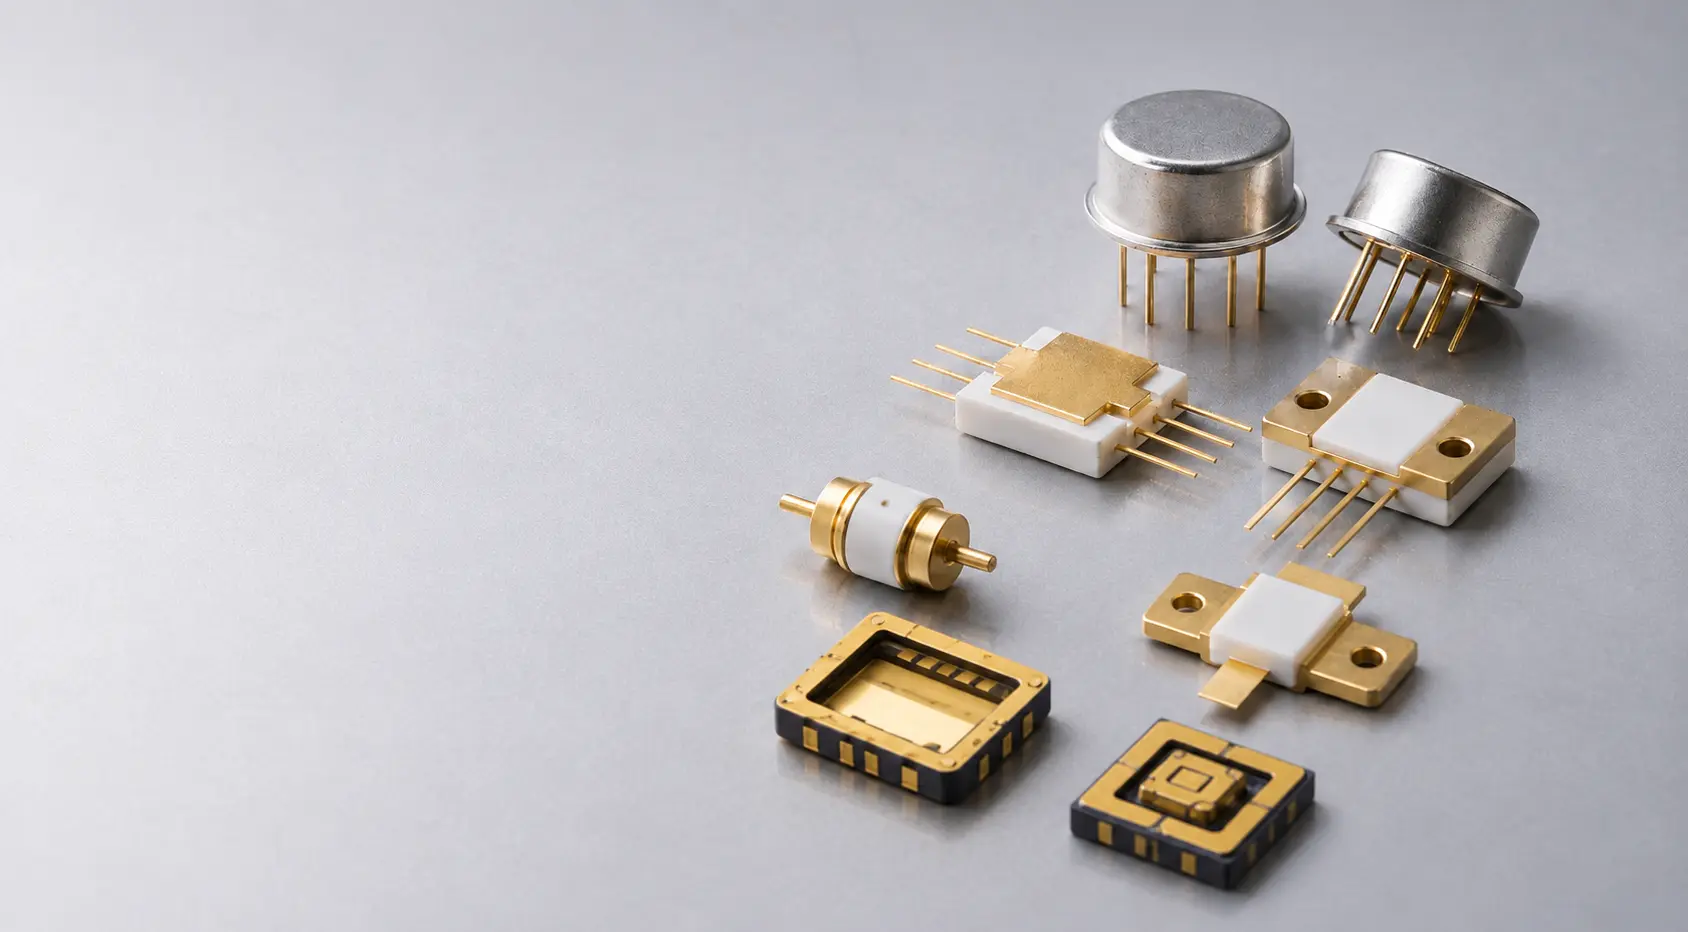
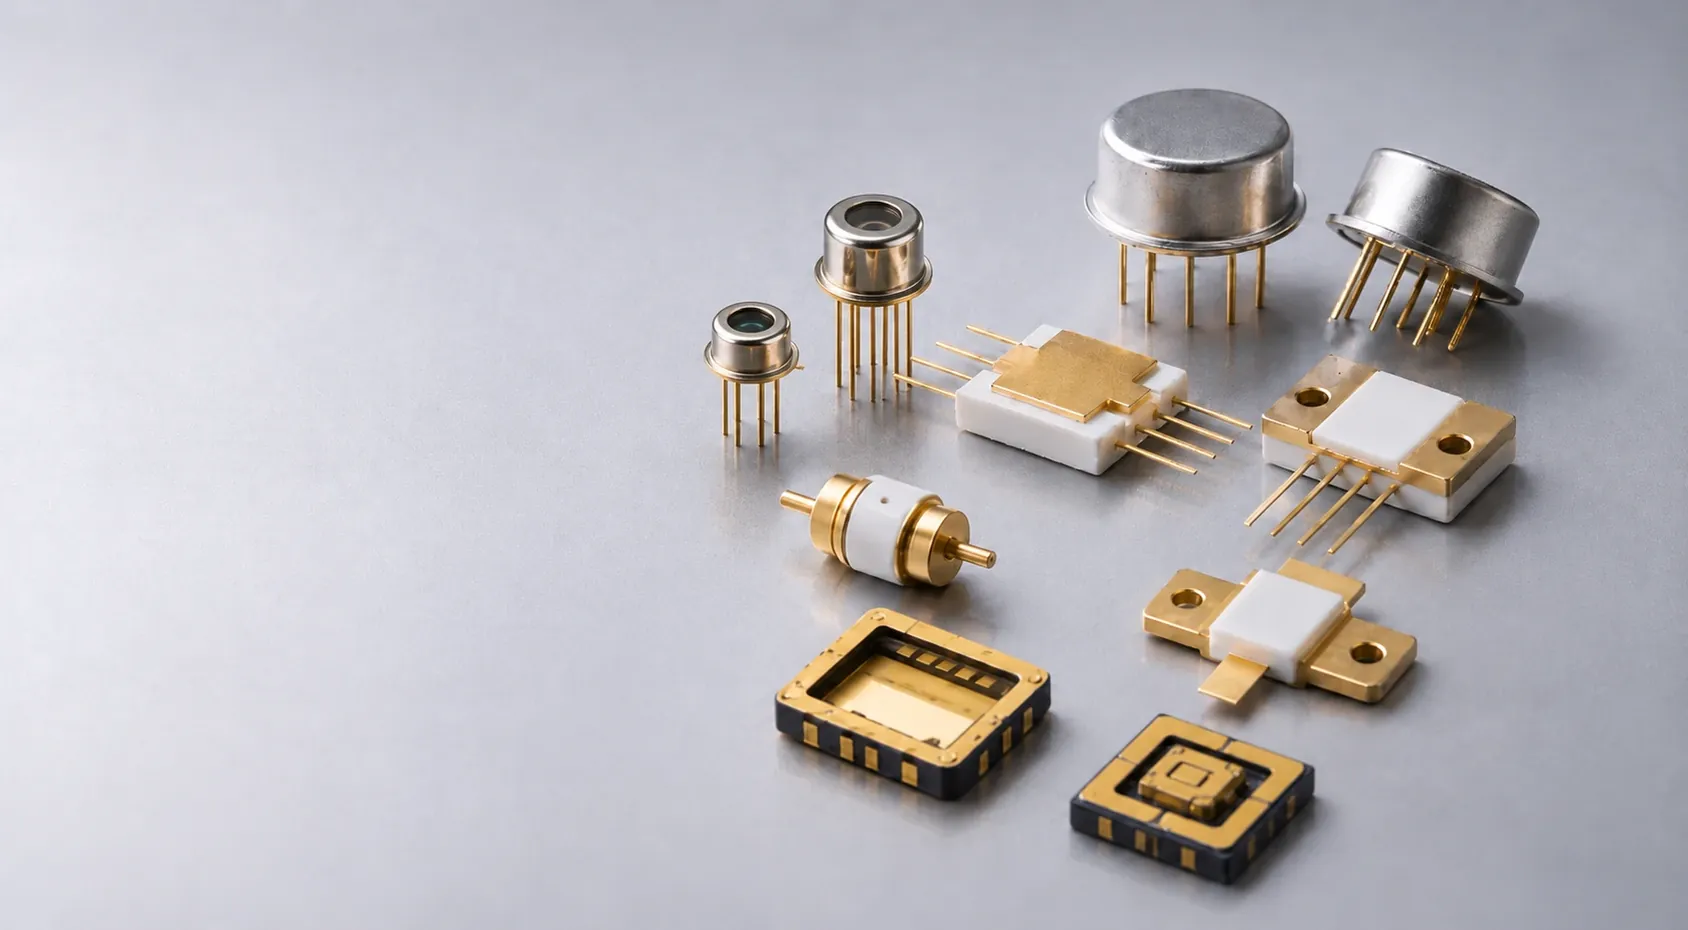
Publish from Razor: Hermetic & Ceramic hero and leak-test detail; remove unused root copy of the old hero

diff --git a/capabilities-osat-hermetic-ceramic.html b/capabilities-osat-hermetic-ceramic.html
@@ -508,7 +508,7 @@
     <div class="hana-spec-block" style="margin-top:18px;"><div class="hana-spec-item"><div class="hana-spec-label" style="display:block;margin-bottom:8px;">Cap weld under nitrogen</div><div class="hana-spec-value" style="font-family:var(--font-mono);font-size:17px;">Hermetic</div></div><div class="hana-spec-item"><div class="hana-spec-label" style="display:block;margin-bottom:8px;">Leak test on sealed product</div><div class="hana-spec-value" style="font-family:var(--font-mono);font-size:17px;">Fine + gross</div></div><div class="hana-spec-item"><div class="hana-spec-label" style="display:block;margin-bottom:8px;">Ceramic bodies</div><div class="hana-spec-value" style="font-family:var(--font-mono);font-size:17px;">AlN / Al₂O₃</div></div><div class="hana-spec-item"><div class="hana-spec-label" style="display:block;margin-bottom:8px;">Metal can formats</div><div class="hana-spec-value" style="font-family:var(--font-mono);font-size:17px;">TO-46/56/8B</div></div></div>
   </div></div></div>
 <div class="sc-pillars-band" data-hana-bg="wafer" data-variant="light" data-accent="" data-fade="none" style="background:linear-gradient(120deg,#f5f7fa 35%,#d8e6f3 100%);position:relative;overflow:hidden;"><div class="cap-section cap-section--band"><div style="margin-bottom:64px;"><div style="margin-bottom:26px;"><h2 style="font-family:var(--font-display);font-size:28px;font-weight:600;color:var(--ink);line-height:1.2;letter-spacing:-0.02em;margin:0;">Capability overview</h2></div><div class="cap-grid-3 sc-stack"><div class="sc-pillar" style="border:1px solid var(--line);border-radius:var(--radius-card);overflow:hidden;background:#fff;display:flex;flex-direction:column;"><div style="padding:22px;display:flex;flex-direction:column;flex:1;"><div style="font-family:var(--font-display);font-size:20px;font-weight:600;color:var(--ink);letter-spacing:-0.01em;margin-bottom:10px;">TO-can</div><p style="font-family:var(--font-text);font-size:13.5px;color:var(--ink-2);line-height:1.55;margin:0 0 16px;">Metal-can packages with optical windows where required.</p><ul style="list-style:none;padding:0;margin:0 0 16px;"><li style="display:grid;grid-template-columns:16px 1fr;gap:8px;align-items:baseline;padding:6px 0;"><span style="color:var(--hana-blue);font-weight:700;">&rsaquo;</span><span style="font-family:var(--font-text);font-size:13px;color:var(--ink-2);line-height:1.5;">TO-46 receiver packages for datacom applications</span></li><li style="display:grid;grid-template-columns:16px 1fr;gap:8px;align-items:baseline;padding:6px 0;"><span style="color:var(--hana-blue);font-weight:700;">&rsaquo;</span><span style="font-family:var(--font-text);font-size:13px;color:var(--ink-2);line-height:1.5;">TO-56 packages with window lens</span></li><li style="display:grid;grid-template-columns:16px 1fr;gap:8px;align-items:baseline;padding:6px 0;"><span style="color:var(--hana-blue);font-weight:700;">&rsaquo;</span><span style="font-family:var(--font-text);font-size:13px;color:var(--ink-2);line-height:1.5;">16-lead TO-8B packages for MEMS mirrors</span></li><li style="display:grid;grid-template-columns:16px 1fr;gap:8px;align-items:baseline;padding:6px 0;"><span style="color:var(--hana-blue);font-weight:700;">&rsaquo;</span><span style="font-family:var(--font-text);font-size:13px;color:var(--ink-2);line-height:1.5;">APD and TIA die assembled on a ceramic submount</span></li></ul></div></div><div class="sc-pillar" style="border:1px solid var(--line);border-radius:var(--radius-card);overflow:hidden;background:#fff;display:flex;flex-direction:column;"><div style="padding:22px;display:flex;flex-direction:column;flex:1;"><div style="font-family:var(--font-display);font-size:20px;font-weight:600;color:var(--ink);letter-spacing:-0.01em;margin-bottom:10px;">Ceramic</div><p style="font-family:var(--font-text);font-size:13.5px;color:var(--ink-2);line-height:1.55;margin:0 0 16px;">AlN and alumina ceramic bodies for VCSEL-based assemblies.</p><ul style="list-style:none;padding:0;margin:0 0 16px;"><li style="display:grid;grid-template-columns:16px 1fr;gap:8px;align-items:baseline;padding:6px 0;"><span style="color:var(--hana-blue);font-weight:700;">&rsaquo;</span><span style="font-family:var(--font-text);font-size:13px;color:var(--ink-2);line-height:1.5;">Ceramic bodies from 1.95 × 3.20 mm</span></li><li style="display:grid;grid-template-columns:16px 1fr;gap:8px;align-items:baseline;padding:6px 0;"><span style="color:var(--hana-blue);font-weight:700;">&rsaquo;</span><span style="font-family:var(--font-text);font-size:13px;color:var(--ink-2);line-height:1.5;">3.60 × 3.70 mm packages for time-of-flight sensing</span></li><li style="display:grid;grid-template-columns:16px 1fr;gap:8px;align-items:baseline;padding:6px 0;"><span style="color:var(--hana-blue);font-weight:700;">&rsaquo;</span><span style="font-family:var(--font-text);font-size:13px;color:var(--ink-2);line-height:1.5;">Precision epoxy-dispensed diffusers</span></li><li style="display:grid;grid-template-columns:16px 1fr;gap:8px;align-items:baseline;padding:6px 0;"><span style="color:var(--hana-blue);font-weight:700;">&rsaquo;</span><span style="font-family:var(--font-text);font-size:13px;color:var(--ink-2);line-height:1.5;">Kovar lids with AuSn furnace reflow</span></li></ul></div></div><div class="sc-pillar" style="border:1px solid var(--line);border-radius:var(--radius-card);overflow:hidden;background:#fff;display:flex;flex-direction:column;"><div style="padding:22px;display:flex;flex-direction:column;flex:1;"><div style="font-family:var(--font-display);font-size:20px;font-weight:600;color:var(--ink);letter-spacing:-0.01em;margin-bottom:10px;">Seal &amp; test</div><p style="font-family:var(--font-text);font-size:13.5px;color:var(--ink-2);line-height:1.55;margin:0 0 16px;">Hermeticity is verified through fine and gross leak testing.</p><ul style="list-style:none;padding:0;margin:0 0 16px;"><li style="display:grid;grid-template-columns:16px 1fr;gap:8px;align-items:baseline;padding:6px 0;"><span style="color:var(--hana-blue);font-weight:700;">&rsaquo;</span><span style="font-family:var(--font-text);font-size:13px;color:var(--ink-2);line-height:1.5;">Cap welding in a controlled nitrogen chamber</span></li><li style="display:grid;grid-template-columns:16px 1fr;gap:8px;align-items:baseline;padding:6px 0;"><span style="color:var(--hana-blue);font-weight:700;">&rsaquo;</span><span style="font-family:var(--font-text);font-size:13px;color:var(--ink-2);line-height:1.5;">Seam sealing for hybrid assemblies</span></li><li style="display:grid;grid-template-columns:16px 1fr;gap:8px;align-items:baseline;padding:6px 0;"><span style="color:var(--hana-blue);font-weight:700;">&rsaquo;</span><span style="font-family:var(--font-text);font-size:13px;color:var(--ink-2);line-height:1.5;">Fine and gross leak testing</span></li><li style="display:grid;grid-template-columns:16px 1fr;gap:8px;align-items:baseline;padding:6px 0;"><span style="color:var(--hana-blue);font-weight:700;">&rsaquo;</span><span style="font-family:var(--font-text);font-size:13px;color:var(--ink-2);line-height:1.5;">Multi-component assemblies hermetically sealed as one unit</span></li></ul></div></div></div></div></div></div>
-<div style="background:#fff;"><div class="cap-section"><div style="margin-bottom:44px;"><div class="why-grid why-grid--single"><div style="position:relative;overflow:hidden;border-radius:var(--radius-panel);padding:32px 30px;background:linear-gradient(152deg,#155F9B 0%,#0E4A7C 46%,#0A3860 100%);border:none;"><div style="display:flex;align-items:center;gap:14px;margin-bottom:18px;"><img src="images/hana-mark-white.svg" alt="" style="width:36px;height:36px;display:block;flex:none;"><span style="flex:1;height:1px;background:rgba(255,255,255,0.24);"></span></div><h3 style="font-family:var(--font-display);font-size:23px;font-weight:600;color:#fff;line-height:1.22;letter-spacing:-0.02em;margin:0 0 12px;text-wrap:balance;">Controlled sealing with verified hermeticity</h3><p style="font-family:var(--font-text);font-size:14.5px;color:rgba(255,255,255,0.84);line-height:1.6;margin:0 0 16px;">Hermetic packaging relies on a controlled cavity rather than encapsulation. The lid is welded or seam-sealed under nitrogen, and the finished package is leak-tested to verify that the cavity remains protected.</p><ul style="list-style:none;padding:0;margin:0;"><li style="display:grid;grid-template-columns:16px 1fr;gap:10px;align-items:baseline;padding:9px 0;border-top:1px solid rgba(255,255,255,0.2);"><span style="color:#7EC8FF;font-size:14px;font-weight:700;line-height:1;">&rsaquo;</span><span style="font-family:var(--font-text);font-size:13.5px;color:rgba(255,255,255,0.88);line-height:1.55;">Cap welding and seam sealing instead of encapsulation</span></li><li style="display:grid;grid-template-columns:16px 1fr;gap:10px;align-items:baseline;padding:9px 0;border-top:1px solid rgba(255,255,255,0.2);"><span style="color:#7EC8FF;font-size:14px;font-weight:700;line-height:1;">&rsaquo;</span><span style="font-family:var(--font-text);font-size:13.5px;color:rgba(255,255,255,0.88);line-height:1.55;">Sealing performed under nitrogen</span></li><li style="display:grid;grid-template-columns:16px 1fr;gap:10px;align-items:baseline;padding:9px 0;border-top:1px solid rgba(255,255,255,0.2);"><span style="color:#7EC8FF;font-size:14px;font-weight:700;line-height:1;">&rsaquo;</span><span style="font-family:var(--font-text);font-size:13.5px;color:rgba(255,255,255,0.88);line-height:1.55;">Fine and gross leak testing on sealed product</span></li><li style="display:grid;grid-template-columns:16px 1fr;gap:10px;align-items:baseline;padding:9px 0;border-top:1px solid rgba(255,255,255,0.2);border-bottom:1px solid rgba(255,255,255,0.2);"><span style="color:#7EC8FF;font-size:14px;font-weight:700;line-height:1;">&rsaquo;</span><span style="font-family:var(--font-text);font-size:13.5px;color:rgba(255,255,255,0.88);line-height:1.55;">Molded packaging available when a hermetic cavity is not required</span></li></ul></div></div></div></div></div>
+<div style="background:#fff;"><div class="cap-section"><div style="margin-bottom:44px;"><div class="why-grid why-grid--single"><div style="position:relative;overflow:hidden;border-radius:var(--radius-panel);padding:32px 30px;background:linear-gradient(152deg,#155F9B 0%,#0E4A7C 46%,#0A3860 100%);border:none;"><div style="display:flex;align-items:center;gap:14px;margin-bottom:18px;"><img src="images/hana-mark-white.svg" alt="" style="width:36px;height:36px;display:block;flex:none;"><span style="flex:1;height:1px;background:rgba(255,255,255,0.24);"></span></div><h3 style="font-family:var(--font-display);font-size:23px;font-weight:600;color:#fff;line-height:1.22;letter-spacing:-0.02em;margin:0 0 12px;text-wrap:balance;">Controlled sealing with verified hermeticity</h3><p style="font-family:var(--font-text);font-size:14.5px;color:rgba(255,255,255,0.84);line-height:1.6;margin:0 0 16px;">Lids are attached by resistance cap welding or seam sealing on Miyachi Unitek equipment, or by flux-free DAP solder sealing, with sealing carried out under nitrogen. Sealed packages can then be checked with the leak tests the specification calls for.</p><ul style="list-style:none;padding:0;margin:0;"><li style="display:grid;grid-template-columns:16px 1fr;gap:10px;align-items:baseline;padding:9px 0;border-top:1px solid rgba(255,255,255,0.2);"><span style="color:#7EC8FF;font-size:14px;font-weight:700;line-height:1;">&rsaquo;</span><span style="font-family:var(--font-text);font-size:13.5px;color:rgba(255,255,255,0.88);line-height:1.55;">Helium fine leak test with reject limits from 1×10⁻⁷ to 2×10⁻⁸ atm·cc/s</span></li><li style="display:grid;grid-template-columns:16px 1fr;gap:10px;align-items:baseline;padding:9px 0;border-top:1px solid rgba(255,255,255,0.2);"><span style="color:#7EC8FF;font-size:14px;font-weight:700;line-height:1;">&rsaquo;</span><span style="font-family:var(--font-text);font-size:13.5px;color:rgba(255,255,255,0.88);line-height:1.55;">Gross leak bubble test in FC-40 at 125 °C</span></li><li style="display:grid;grid-template-columns:16px 1fr;gap:10px;align-items:baseline;padding:9px 0;border-top:1px solid rgba(255,255,255,0.2);"><span style="color:#7EC8FF;font-size:14px;font-weight:700;line-height:1;">&rsaquo;</span><span style="font-family:var(--font-text);font-size:13.5px;color:rgba(255,255,255,0.88);line-height:1.55;">Dye penetrant test under UV light for seal integrity</span></li><li style="display:grid;grid-template-columns:16px 1fr;gap:10px;align-items:baseline;padding:9px 0;border-top:1px solid rgba(255,255,255,0.2);"><span style="color:#7EC8FF;font-size:14px;font-weight:700;line-height:1;">&rsaquo;</span><span style="font-family:var(--font-text);font-size:13.5px;color:rgba(255,255,255,0.88);line-height:1.55;">Molded packaging available when a hermetic cavity is not required</span></li></ul></div></div></div></div></div>
 <div style="background:var(--hana-blue-tint);"><div class="cap-section"><div style="margin-bottom:8px;"><div style="margin-bottom:26px;"><h2 style="font-family:var(--font-display);font-size:28px;font-weight:600;color:var(--ink);line-height:1.2;letter-spacing:-0.02em;margin:0;">Where we run it</h2><p style="font-family:var(--font-text);font-size:15.5px;color:var(--ink-2);line-height:1.6;max-width:640px;margin:10px 0 0;">Hermetic and ceramic packaging is available across our OSAT network; production mix varies by site.</p></div><div class="cap-grid-4"><a href="locations-ayutthaya.html" style="text-decoration:none;border:1px solid var(--line);border-radius:var(--radius-card);padding:22px;background:#fff;display:flex;flex-direction:column;gap:16px;"><div><div style="display:flex;align-items:center;gap:7px;margin-bottom:7px;"><i data-lucide="map-pin" style="width:14px;height:14px;color:var(--hana-blue);"></i><span style="font-family:var(--font-text);font-size:11px;font-weight:700;text-transform:uppercase;letter-spacing:0.08em;color:var(--hana-blue);">Thailand</span></div><div style="font-family:var(--font-display);font-size:22px;font-weight:700;color:var(--ink);letter-spacing:-0.01em;">Ayutthaya</div></div><span style="display:inline-flex;align-items:center;gap:6px;font-family:var(--font-text);font-size:13.5px;font-weight:600;color:var(--hana-blue);">Explore Ayutthaya <svg width="13" height="13" viewBox="0 0 24 24" fill="none" stroke="var(--hana-blue)" stroke-width="2" stroke-linecap="round" stroke-linejoin="round"><path d="M5 12h14"></path><path d="m12 5 7 7-7 7"></path></svg></span></a>
       <a href="locations-lamphun.html" style="text-decoration:none;border:1px solid var(--line);border-radius:var(--radius-card);padding:22px;background:#fff;display:flex;flex-direction:column;gap:16px;"><div><div style="display:flex;align-items:center;gap:7px;margin-bottom:7px;"><i data-lucide="map-pin" style="width:14px;height:14px;color:var(--hana-blue);"></i><span style="font-family:var(--font-text);font-size:11px;font-weight:700;text-transform:uppercase;letter-spacing:0.08em;color:var(--hana-blue);">Thailand</span></div><div style="font-family:var(--font-display);font-size:22px;font-weight:700;color:var(--ink);letter-spacing:-0.01em;">Lamphun</div></div><span style="display:inline-flex;align-items:center;gap:6px;font-family:var(--font-text);font-size:13.5px;font-weight:600;color:var(--hana-blue);">Explore Lamphun <svg width="13" height="13" viewBox="0 0 24 24" fill="none" stroke="var(--hana-blue)" stroke-width="2" stroke-linecap="round" stroke-linejoin="round"><path d="M5 12h14"></path><path d="m12 5 7 7-7 7"></path></svg></span></a><a href="locations-jiaxing.html" style="text-decoration:none;border:1px solid var(--line);border-radius:var(--radius-card);padding:22px;background:#fff;display:flex;flex-direction:column;gap:16px;"><div><div style="display:flex;align-items:center;gap:7px;margin-bottom:7px;"><i data-lucide="map-pin" style="width:14px;height:14px;color:var(--hana-blue);"></i><span style="font-family:var(--font-text);font-size:11px;font-weight:700;text-transform:uppercase;letter-spacing:0.08em;color:var(--hana-blue);">China</span></div><div style="font-family:var(--font-display);font-size:22px;font-weight:700;color:var(--ink);letter-spacing:-0.01em;">Jiaxing</div></div><span style="display:inline-flex;align-items:center;gap:6px;font-family:var(--font-text);font-size:13.5px;font-weight:600;color:var(--hana-blue);">Explore Jiaxing <svg width="13" height="13" viewBox="0 0 24 24" fill="none" stroke="var(--hana-blue)" stroke-width="2" stroke-linecap="round" stroke-linejoin="round"><path d="M5 12h14"></path><path d="m12 5 7 7-7 7"></path></svg></span></a></div></div></div></div>
 <div style="background:#fff;"><div class="cap-section"><div style="margin-bottom:8px;"><div style="margin-bottom:26px;"><h2 style="font-family:var(--font-display);font-size:28px;font-weight:600;color:var(--ink);line-height:1.2;letter-spacing:-0.02em;margin:0;">Frequently asked questions</h2></div><div style="border:1px solid var(--line);border-radius:var(--radius-card);overflow:hidden;background:#fff;"><details class="sc-faq" open><summary>Do you build hermetic packages?<span class="sc-faq-mk">+</span></summary><div class="sc-faq-a">Yes. Metal can and ceramic bodies, sealed by cap weld or seam seal under nitrogen, and leak tested before they ship.</div></details><details class="sc-faq"><summary>How is the seal verified?<span class="sc-faq-mk">+</span></summary><div class="sc-faq-a">Every sealed part gets both a fine and a gross leak test. Hermeticity is measured rather than inferred from the process.</div></details><details class="sc-faq"><summary>When does a device need a hermetic package rather than a molded one?<span class="sc-faq-mk">+</span></summary><div class="sc-faq-a">Where the die requires protection from moisture, or where the device requires a cavity above the active surface, as with a laser diode, VCSEL, or moving MEMS structure. Where a controlled cavity is not required, molded packaging may provide a simpler package architecture.</div></details><details class="sc-faq"><summary>Can the package have an optical window?<span class="sc-faq-mk">+</span></summary><div class="sc-faq-a">Yes. TO-56 takes a window lens, and TO-8B in 16 leads is used where the MEMS mirror requires an optical path through the package. Ceramic bodies can carry an epoxy-dispensed diffuser instead.</div></details><details class="sc-faq"><summary>What kinds of device do you seal?<span class="sc-faq-mk">+</span></summary><div class="sc-faq-a">Laser diodes and VCSELs, MEMS mirrors, avalanche photodiodes with their TIA, RF power transistors, PIN diodes and pulse transformers.</div></details></div></div></div></div>
